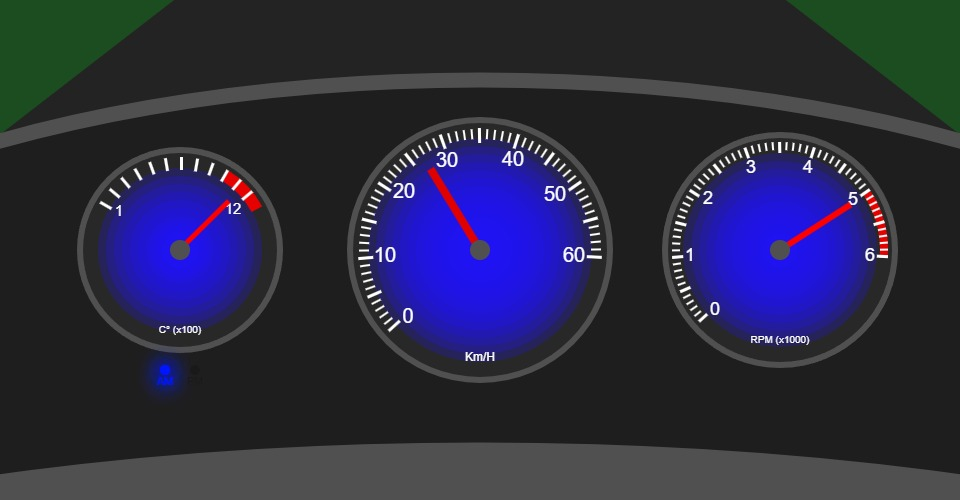
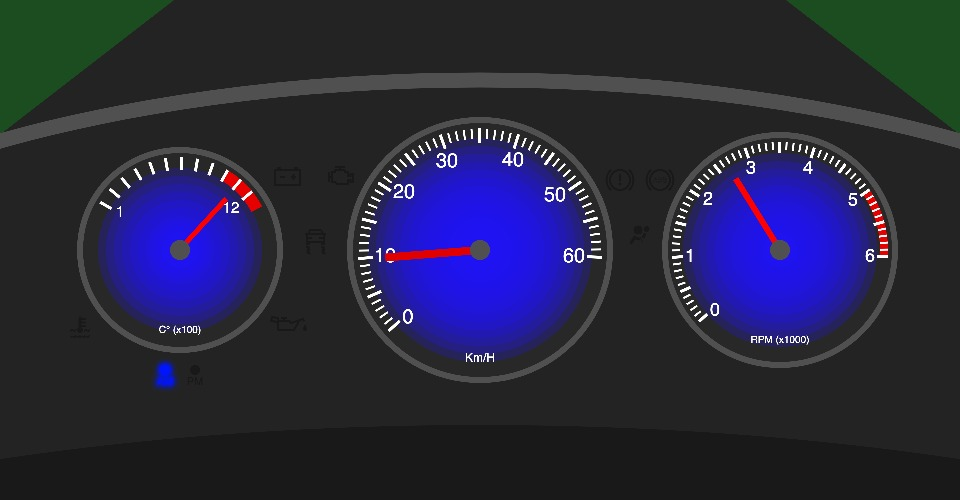
hfhrrry

diff --git a/clock.js b/clock.js
@@ -73,7 +73,7 @@ function draw_clock(obj) {
 
   stroke(80); //lightish grey (used for the outline of the dash and the gauges)
   strokeWeight(15);
-  fill(30); //very dark grey
+  fill(35); //very dark grey
   ellipse(0,180,1700, 700); //main dashboard component
   noStroke();
   fill(25); //light grey
@@ -152,8 +152,8 @@ function draw_clock(obj) {
   textSize(10);
   text('C° (x100)',-300,80);
   textSize(15);
-  text('1',-361,-38);
-  text('12',-247,-40);
+  text('1',-360,-38);
+  text('12',-249,-42);
 
   fill(255);
   push();
@@ -264,6 +264,7 @@ function draw_clock(obj) {
   let warningblue = color(0, 21, 255); //bright blue
   let warningorange = color(255, 98, 0); //amber
   let warningred = color(194, 29, 0); //orangey red
+  let warninggreen = color(26, 163, 16); //neutral green
   if(alarm == 0 && millis <=810 && millis >=364){
     var activefill = color(194,29,0); //allows the fill to be changed when the alarm is active
    } else{
@@ -278,6 +279,11 @@ function draw_clock(obj) {
     var activefill3 = color(warningred); //allows the fill to be changed when the alarm is active
   } else{
      var activefill3 = color(25); //very dark grey
+  }
+  if(alarm == 0 && millis <=500){
+    var activefill4 = color(warninggreen);
+  } else{
+    var activefill4 = color(25);
   }
 
   //AM/PM lights
@@ -359,8 +365,8 @@ function draw_clock(obj) {
     ellipse(x1,y1,size1);
     pop();
   }
-  
-  function drawbattery(batteryx,batteryy) {
+  //Other warning light functions
+  function drawbattery(batteryx,batteryy) {//battery
     beginShape(); //main battery outline
   vertex(batteryx,batteryy);
   vertex(batteryx,batteryy+15);
@@ -381,7 +387,7 @@ function draw_clock(obj) {
   line(batteryx-20,batteryy+7,batteryx-15,batteryy+7);//battery negative
   };
 
- function drawengine(enginex,enginey) {
+ function drawengine(enginex,enginey) { //engine light
    beginShape();
    vertex(enginex,enginey);
    vertex(enginex,enginey+2);
@@ -403,13 +409,13 @@ function draw_clock(obj) {
    vertex(enginex-10,enginey);
    vertex(enginex,enginey);
    endShape();
-   line(enginex-13,enginey+7,enginex-15.5,enginey+7);
+   line(enginex-13,enginey+7,enginex-15.5,enginey+7); //fans
    line(enginex-16,enginey+2,enginex-16,enginey+12);
    line(enginex-5,enginey,enginex-5,enginey-3);
    line(enginex-10,enginey-3,enginex,enginey-3);
   };
   
-  function drawhbrake(hbrakex,hbrakey) {
+  function drawhbrake(hbrakex,hbrakey) { //handbrake light
    ellipse(hbrakex,hbrakey,20,20);
    arc(hbrakex,hbrakey,27,27,-50,50);
    arc(hbrakex,hbrakey,27,27,130,-130);
@@ -419,7 +425,7 @@ function draw_clock(obj) {
    noFill();
   }
 
-  function drawabs(absx,absy) {
+  function drawabs(absx,absy) { //abs light
     ellipse(absx,absy,20,20);
     arc(absx,absy,27,27,-50,50);
     arc(absx,absy,27,27,130,-130);
@@ -430,7 +436,7 @@ function draw_clock(obj) {
     pop();
    }
 
-  function drawairbag(airbagx,airbagy) {
+  function drawairbag(airbagx,airbagy) { //airbag light
     fill(activefill);
     ellipse(airbagx,airbagy,7,7);
     ellipse(airbagx+8.5,airbagy-1,4,4);
@@ -446,7 +452,7 @@ function draw_clock(obj) {
     pop();
   }
 
-  function drawoillevel(oillevelx,oillevely) {
+  function drawoillevel(oillevelx,oillevely) { //oil level light
    noFill();
    strokeWeight(2);
    strokeCap(SQUARE);
@@ -477,18 +483,60 @@ function draw_clock(obj) {
     line(oillevelx-24,oillevely-12,oillevelx-18,oillevely-12);
   }
 
-  function drawtemp(tempx,tempy){
-    fill(255); //CHANGE
-    ellipse(tempx,tempy,7,7);
+  function drawtemp(tempx,tempy){ //oil temperature light
+    fill(activefill2);
+    ellipse(tempx,tempy,4,4);
     noFill();
-    stroke(255); //DELETE
     strokeWeight(3);
     strokeCap(ROUND);
     line(tempx,tempy,tempx,tempy-12);
+    strokeWeight(2);
+    line(tempx,tempy-11,tempx+5,tempy-11);
+    line(tempx,tempy-7.5,tempx+5,tempy-7.5);
+    line(tempx,tempy-4,tempx+5,tempy-4);
+    (push);
+    strokeWeight(1);
+    textSize(8);
+    text('~~~~',tempx,tempy+6);
+    textSize(10);
+    text('~',tempx-7,tempy);
+    text('~',tempx+7,tempy);
+    pop();
   };
 
-  let batteryx2 = -180
-  let batteryy2 = -80
+  function drawtcs(tcsx,tcsy){ //traction control light
+    noFill();
+    strokeWeight(2);
+    strokeCap(SQUARE);
+    beginShape();
+    vertex(tcsx+1.5,tcsy);
+    vertex(tcsx-10,tcsy);
+    vertex(tcsx-13,tcsy+6);
+    vertex(tcsx-13,tcsy+14);
+    vertex(tcsx-11,tcsy+14);
+    vertex(tcsx-11,tcsy+12);
+    vertex(tcsx+2,tcsy+12);
+    vertex(tcsx+2,tcsy+14);
+    vertex(tcsx+4,tcsy+14);
+    vertex(tcsx+4,tcsy+6);
+    vertex(tcsx+1,tcsy);
+    endShape();
+    line(tcsx-15,tcsy+4,tcsx+6,tcsy+4);
+    line(tcsx-13,tcsy+8,tcsx-8,tcsy+8);
+    line(tcsx+4,tcsy+8,tcsx-1,tcsy+8);
+    push();
+    translate(+160,+20);
+    rotate(90);
+    textSize(12);
+    text('~',tcsx+140,tcsy+351);
+    text('~',tcsx+140,tcsy+336);
+    pop();
+  }
+
+//MAKE THE INDICATORS HERE!!!!!
+
+  let batteryx2 = -180 //variables for the positions of each light because
+  let batteryy2 = -80 // the function is called severall times and I dont want to change every instance if i decide to move a light
 
   let enginex2 = -135
   let enginey2 = -80
@@ -507,8 +555,14 @@ function draw_clock(obj) {
 
   let tempx2 = -400
   let tempy2 = 80
- 
-  stroke(25);
+
+  let tcsx2 = -160
+  let tcsy2 = -20
+
+  let indicatex2 = 0
+  let indicatey2 = 80
+
+  stroke(25); //draws  all lights when they  are off
   strokeWeight(2);
   noFill();
   drawbattery(batteryx2,batteryy2);
@@ -518,6 +572,22 @@ function draw_clock(obj) {
   drawairbag(airbagx2,airbagy2);
   drawoillevel(oillevelx2,oillevely2);
   drawtemp(tempx2,tempy2);
+  drawtcs(tcsx2,tcsy2);
+  drawindicate(indicatex2,indicatey2);
+
+  if(alarm > 0){
+    push();
+    stroke(warningorange);
+    strokeWeight(2);
+    noFill();
+    drawingContext.shadowBlur = 20;
+    drawingContext.shadowColor = color(warningorange);
+    drawengine(enginex2,enginey2);
+    drawengine(enginex2,enginey2);
+    drawengine(enginex2,enginey2);
+    drawengine(enginex2,enginey2);
+    pop();
+    };
 
   if(alarm == 0 && millis >= 500){
   stroke(warningred);
@@ -609,7 +679,7 @@ function draw_clock(obj) {
     noFill();
     strokeWeight(2);
     push();
-    drawingContext.shadowBlue = 20;
+    drawingContext.shadowBlur = 20;
     drawingContext.shadowColor = color(warningred);
     drawtemp(tempx2,tempy2);
     drawtemp(tempx2,tempy2);
@@ -617,4 +687,20 @@ function draw_clock(obj) {
     drawtemp(tempx2,tempy2);
     pop();
   };
+
+  if(alarm == 0 && millis >= 130 && millis <= 910){
+    stroke(warningorange);
+    noFill();
+    strokeWeight(2);
+    push();
+    drawingContext.shadowBlur = 20;
+    drawingContext.shadowColor = color(warningorange);
+    drawtcs(tcsx2,tcsy2);
+    drawtcs(tcsx2,tcsy2);
+    drawtcs(tcsx2,tcsy2);
+    drawtcs(tcsx2,tcsy2);
+    pop();
+    }
+
+
 }
